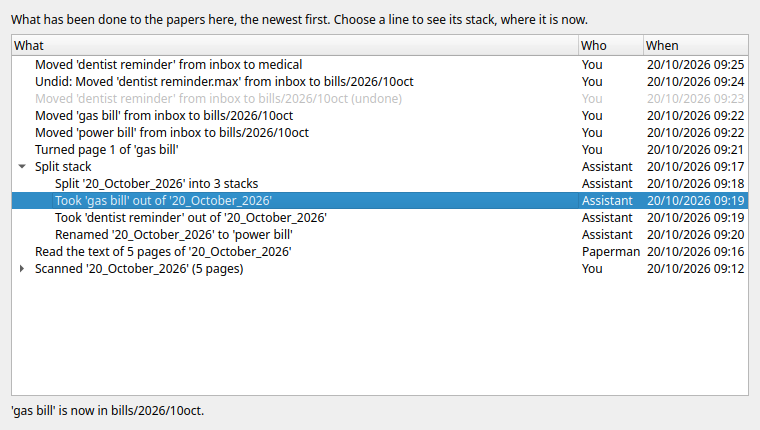
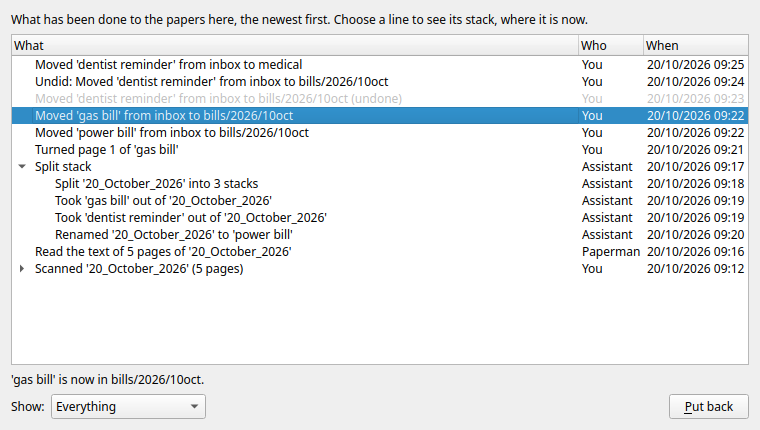
doc: Describe Put back in the Activity window
The guide's account of the Activity window, and its picture, have
neither the Put back button nor the choice of whose doings to show.

Describe both, say on the developers' page how Put back works out
where a stack goes, and take the picture again with a line chosen
which can be put back.

Co-developed-by: Claude Fable 5.2 <noreply@anthropic.com>
Claude-Session: https://claude.ai/code/session_01BxfLL7T8McSpFMMxYekitE

diff --git a/test/test_screenshots.cpp b/test/test_screenshots.cpp
@@ -764,6 +764,7 @@ void TestScreenshots::testActivity ()
 
    // the stack chosen for the picture is there, for the window to find
    QVERIFY (QDir (repo.path ()).mkpath ("bills/2026/10oct"));
+   QVERIFY (QDir (repo.path ()).mkpath ("inbox"));
    QFile stack (repo.path () + "/bills/2026/10oct/gas bill.max");
    QVERIFY (stack.open (QIODevice::WriteOnly));
    stack.close ();
@@ -776,13 +777,14 @@ void TestScreenshots::testActivity ()
    QVERIFY (QTest::qWaitForWindowExposed (&dialog));
 
    // open the pile's dividing, to show what is under a line, and choose
-   // a line whose stack has since moved
+   // a line whose stack can be put back
    QTreeWidget *tree = dialog.findChild<QTreeWidget *> ();
 
    QVERIFY (tree);
    QCOMPARE (tree->topLevelItem (6)->text (0), QString ("Split stack"));
    tree->topLevelItem (6)->setExpanded (true);
-   dialog.choose (6, 1);
+   dialog.choose (3);
+   QCOMPARE (int (dialog.putBackMoves ().size ()), 1);
    settle ();
    save (&dialog, "activity");
    }

diff --git a/doc/desktop.rst b/doc/desktop.rst
@@ -90,7 +90,7 @@ made, renamed or moved; and each undo. **View > Activity** (Ctrl+H) shows it, in
 open while Paperman is used:
 
 .. image:: images/activity.png
-   :alt: The Activity window, listing a morning's post being scanned, split by the assistant and filed, with the gas bill chosen and a note saying where it is now
+   :alt: The Activity window, listing a morning's post being scanned, split by the assistant and filed, with the line for moving the gas bill chosen, a note saying where it is now, and the Put back button
 
 - The newest thing is at the top, with who did it: you, the assistant
   (for a name or a split it suggested and you accepted) or Paperman
@@ -107,6 +107,20 @@ open while Paperman is used:
   folders included, so a line from days ago still leads to it. A line
   about a folder shows that folder. The note below the list says
   where that is, or that the stack has since been deleted.
+
+- **Put back** returns the stack to where it was, and as it was named,
+  before the line chosen was done: a stack which was renamed gets its
+  old name, and one which was moved goes back to the folder it left. It
+  works from where the stack is now, so a line from several steps ago
+  takes it back past everything since. For a line with others under it,
+  such as the names the assistant gave to a batch of stacks, every one of
+  them is put back. This works however long ago the thing was done, long
+  after **Edit > Undo** has forgotten it, and is itself a step which can
+  be undone. The button is greyed when there is nothing to put back: the
+  line did not rename or move anything, it has been undone, or the name
+  is now taken by another stack.
+- **Show** cuts the list down to what you did, what the assistant did,
+  or what Paperman did by itself.
 
 This makes it possible to look back over what was filed, by you or by
 the assistant, and put right anything which went to the wrong place.

diff --git a/doc/activity-log.rst b/doc/activity-log.rst
@@ -184,3 +184,10 @@ greyed. When a line is chosen it finds where the stack is now with
 ``Desktopwidget::showStack()``, which goes to the folder, selects the
 stack and turns it to the page, leaving the keyboard with the window.
 ``Desktopmodel::activityRecorded()`` tells it when the record has grown.
+
+**Put back** works out, for the line chosen or each line under it which
+renamed or moved a stack, where the stack is now (``whereNow()``) and
+where it was: the entry's ``from``, in the folder as that is now
+(``ActivityLog::folderNow()``). ``Desktopwidget::putBack()`` then renames
+and moves each stack through the model, within one undo macro, so it is
+recorded as a group like anything else and can be undone.
